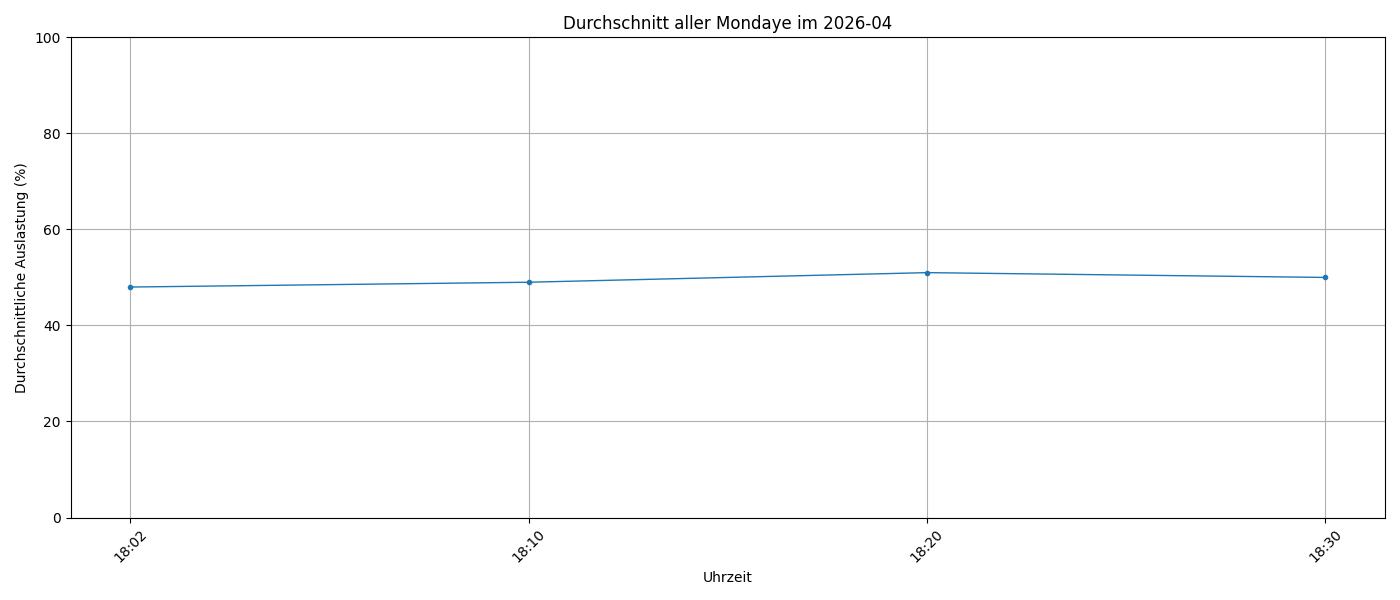
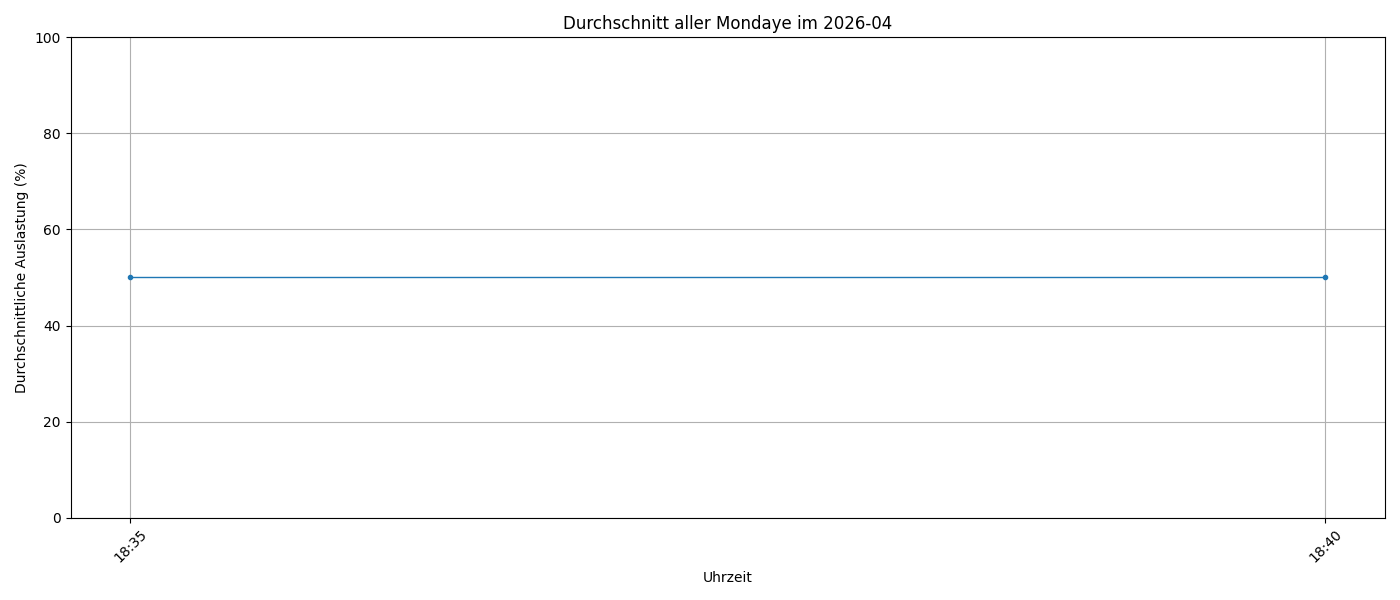
Finalize structure: daily folders with CSV + graphs, monthly and yearly averages

diff --git a/src/generate_graphs.py b/src/generate_graphs.py
@@ -82,11 +82,11 @@ def create_daily_graphs(df: pd.DataFrame, year: int, month: int) -> None:
     if month_df.empty:
         return
 
-    day_str = str(date.day).zfill(2)
-    output_dir = OUTPUT_BASE / str(year) / f"{month:02d}" / day_str
-
     for date, day_df in month_df.groupby("date"):
         day_df = day_df.sort_values("timestamp")
+
+        day_str = str(date.day).zfill(2)
+        output_dir = OUTPUT_BASE / str(year) / f"{month:02d}" / day_str
 
         output_file = output_dir / f"day_{date}.png"
 
@@ -106,12 +106,12 @@ def create_daily_csv_files(df: pd.DataFrame, year: int, month: int) -> None:
     if month_df.empty:
         return
 
-    day_str = str(date.day).zfill(2)
-    output_dir = OUTPUT_BASE / str(year) / f"{month:02d}" / day_str
-    output_dir.mkdir(parents=True, exist_ok=True)
-
     for date, day_df in month_df.groupby("date"):
         day_df = day_df.sort_values("timestamp")
+
+        day_str = str(date.day).zfill(2)
+        output_dir = OUTPUT_BASE / str(year) / f"{month:02d}" / day_str
+        output_dir.mkdir(parents=True, exist_ok=True)
 
         export_df = day_df[["timestamp", "load_percent"]].copy()
         export_df["timestamp"] = export_df["timestamp"].dt.strftime("%Y-%m-%d %H:%M:%S")